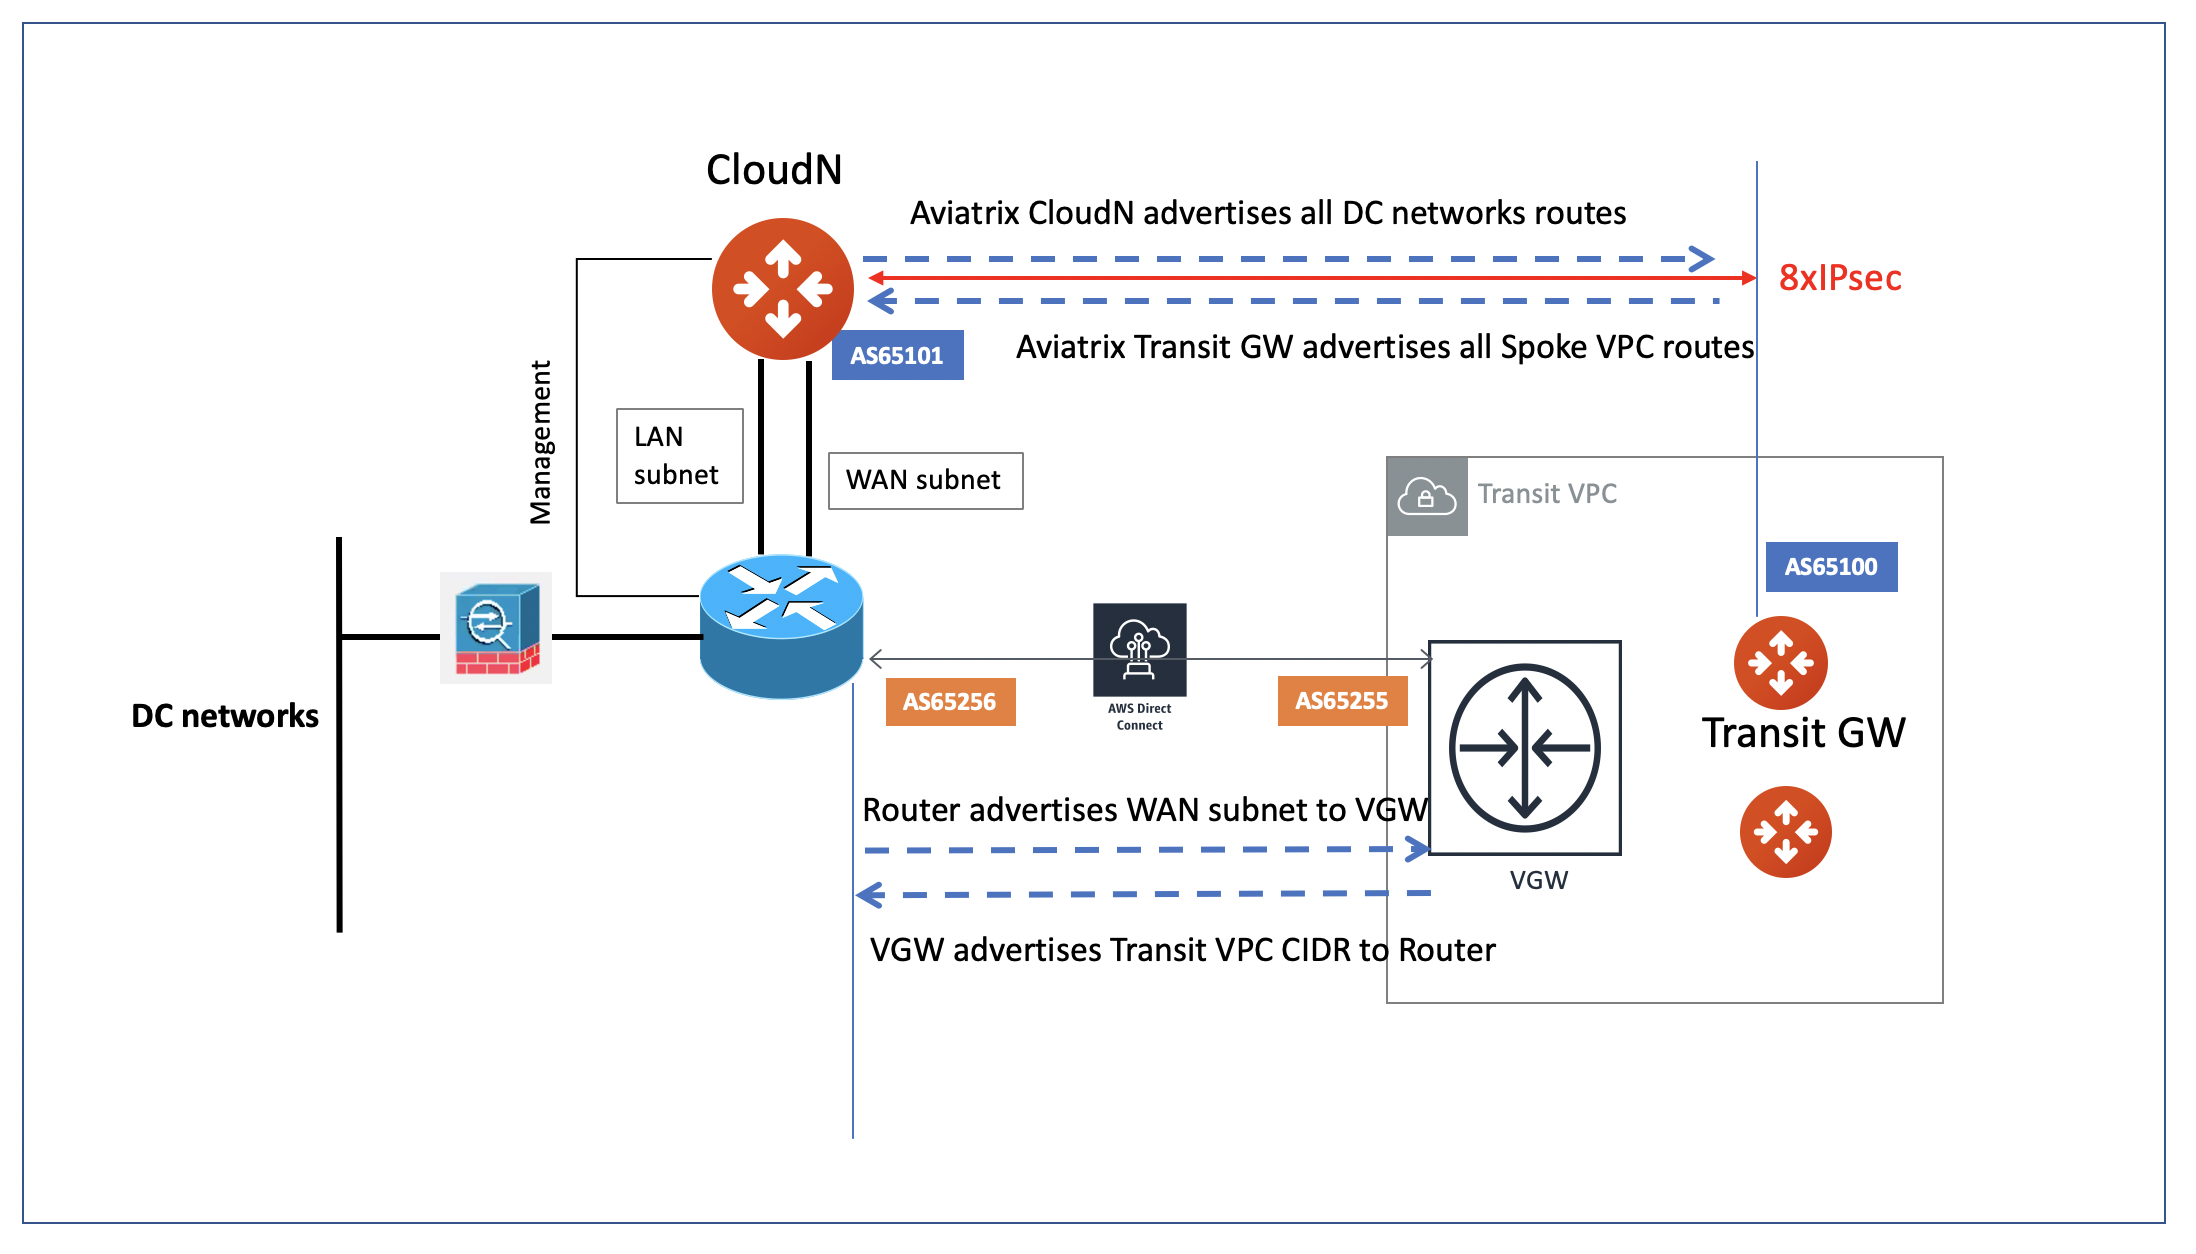
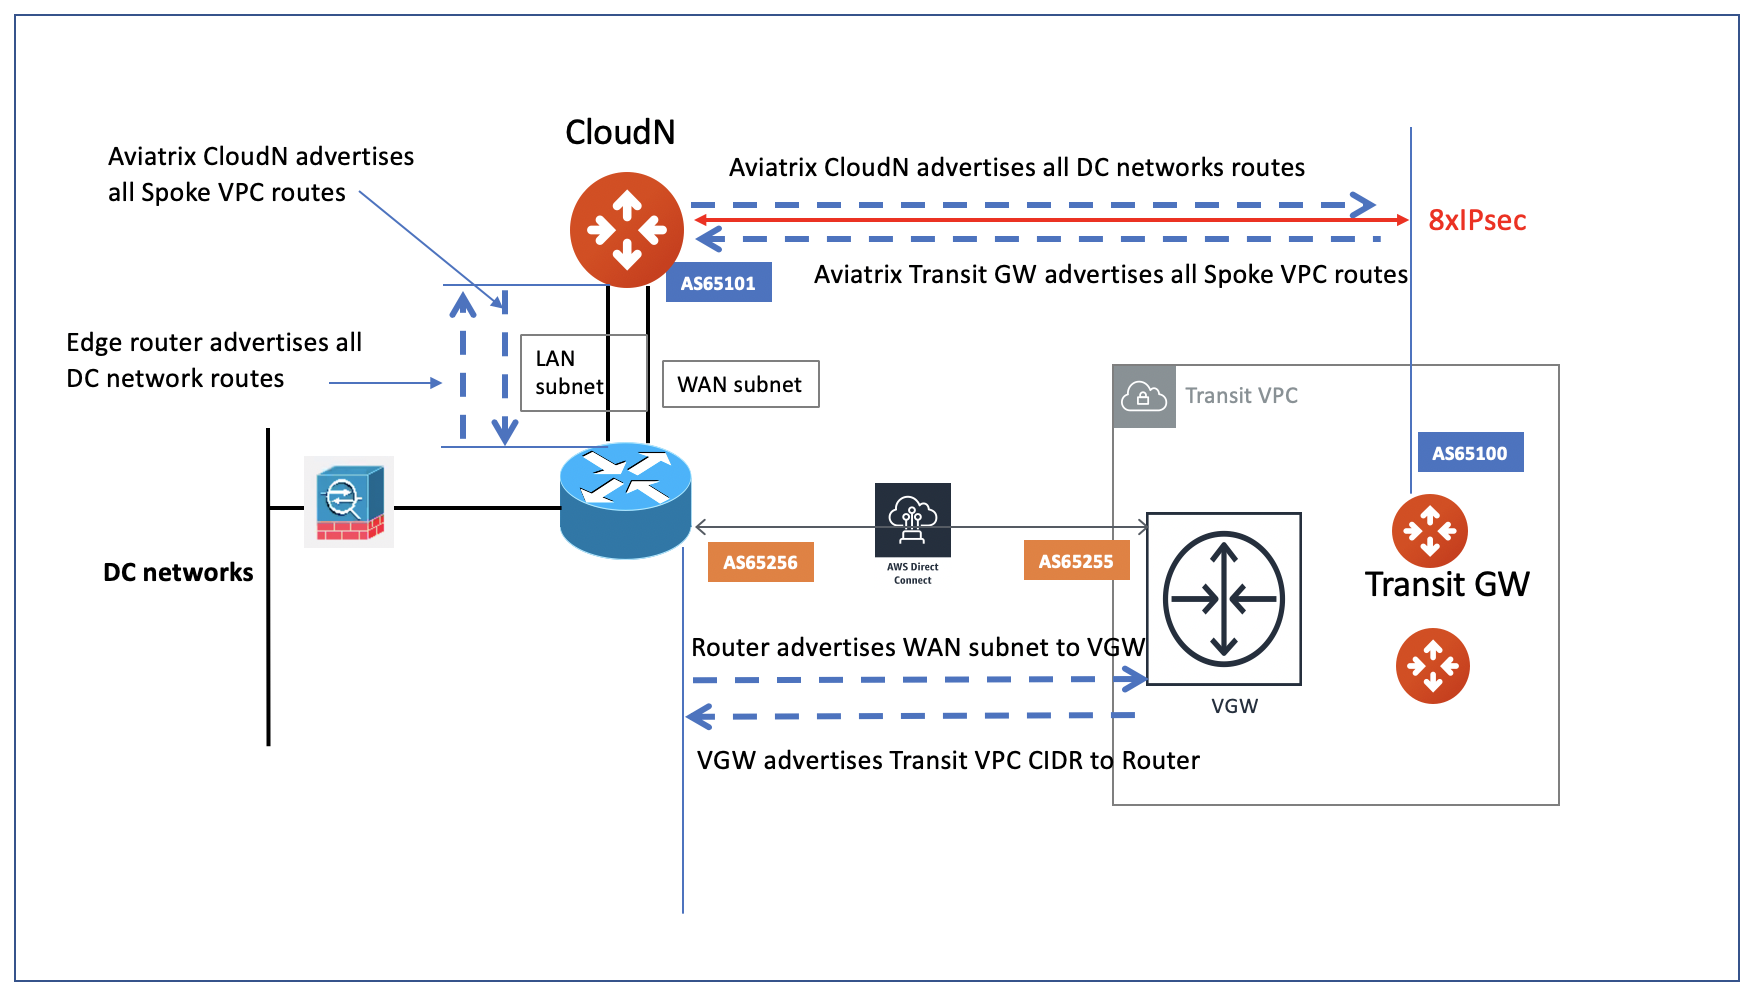
update insane mode diagram

diff --git a/HowTos/CloudN_insane_mode.rst b/HowTos/CloudN_insane_mode.rst
@@ -20,8 +20,9 @@ The first step is to understand how routing works in this use case, as demonstra
 
 The key ideas for this scenario are:
 
- -  The edge (WAN) router runs a BGP session to VGW (AWS) where the edge router advertise CloudN WAN subnet network and VGW advertises the Transit VPC CIDR.
- -  CloudN runs a BGP session to Aviatrix Transit Gateway where Aviatrix Transit Gateway advertises all Spoke VPC CIDRs and CloudN advertises on-prem network. 
+ -  The edge (WAN) router runs a BGP session to VGW (AWS) where the edge router advertises CloudN WAN subnet network and VGW advertises the Transit VPC CIDR.
+ -  CloudN LAN interface runs a BGP session to the edge router where the edge router advertises on-prem network address range to CloudN LAN interface.
+ -  CloudN WAN interface runs a BGP session to Aviatrix Transit Gateway in the Transit VPC where Aviatrix Transit Gateway advertises all Spoke VPC CIDRs to CloudN and CloudN advertises on-prem network to the Aviatrix Transit Gateway. 
 
 Following are a few common deployment architecture. 
 
